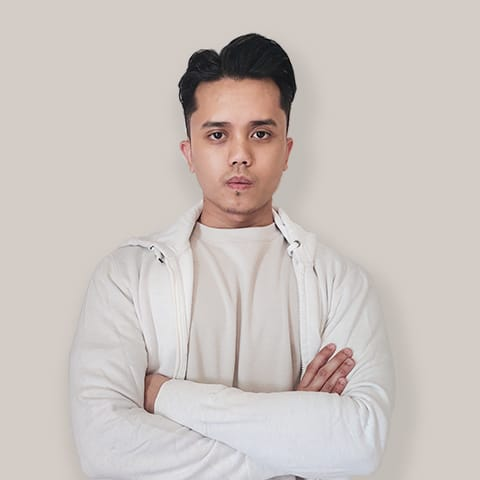
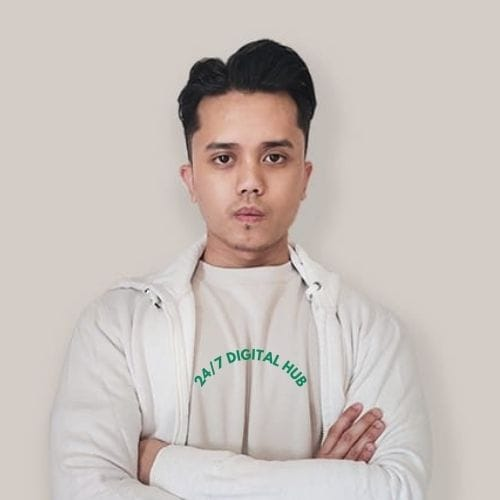
Fixed the team images and removed the docker images

diff --git a/digitalhub/static/css/style.css b/digitalhub/static/css/style.css
@@ -157,7 +157,7 @@ img {
     max-width: 100%;
     overflow: hidden;
     max-height: 100%;
-    object-fit: cover;
+    object-fit: top;
     z-index: 1;
   }
   .john-queens {
